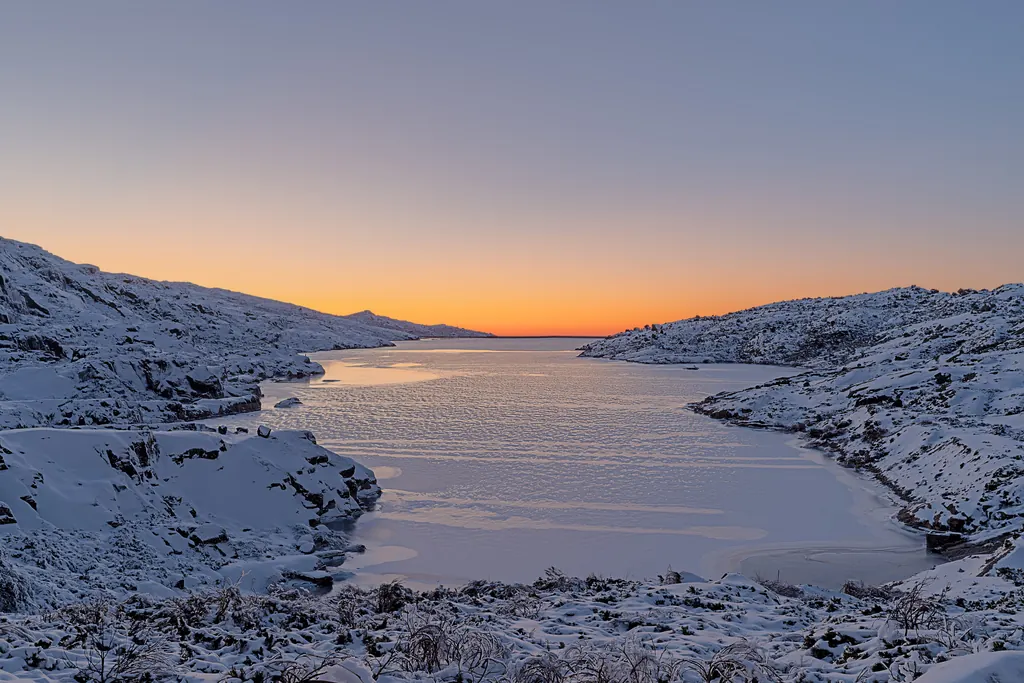
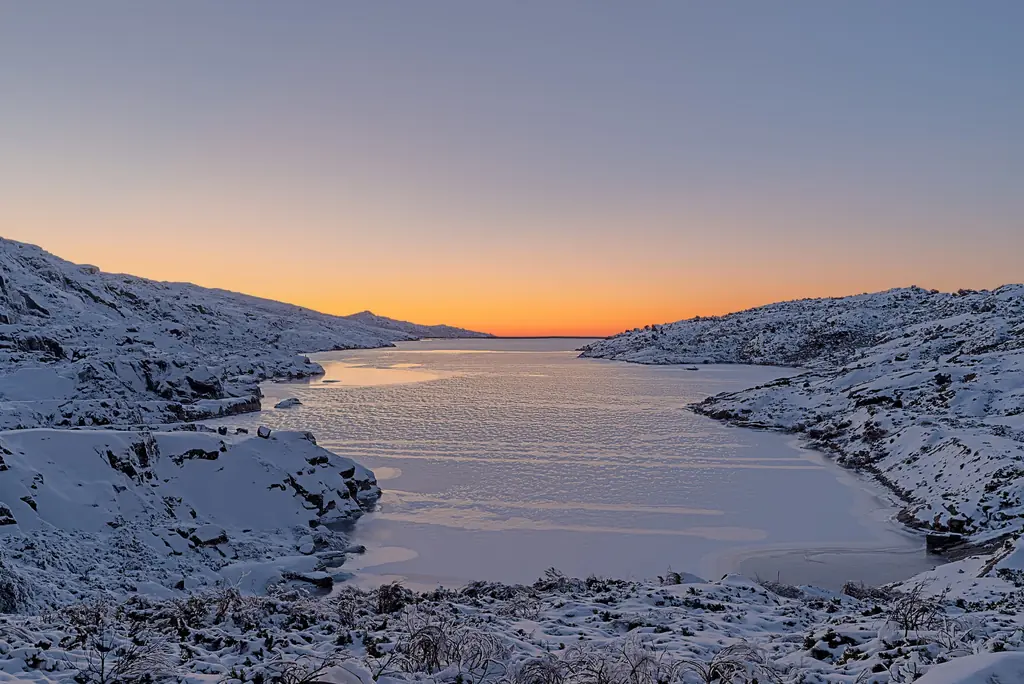
Texto sobre as fotos com mais contraste; foto de topo da Serra mais leve no telemóvel; mosaico carrega depois

diff --git a/src/styles.css b/src/styles.css
@@ -149,10 +149,10 @@ button { font: inherit; color: inherit; cursor: pointer; }
 /* ---------- página inicial ---------- */
 .hero { position: relative; display: grid; align-items: end; min-height: 56svh; color: #fff; overflow: hidden; }
 .hero__img { position: absolute; inset: 0; width: 100%; height: 100%; object-fit: cover; }
-.hero::after { content: ""; position: absolute; inset: 0; background: linear-gradient(180deg, rgba(0,0,0,0) 35%, rgba(20,10,8,.68)); }
+.hero::after { content: ""; position: absolute; inset: 0; background: linear-gradient(180deg, rgba(0,0,0,.08) 0%, rgba(0,0,0,.1) 30%, rgba(14,12,10,.55) 62%, rgba(14,12,10,.82) 100%); }
 .hero__content { position: relative; z-index: 1; padding-block: 3rem 5.5rem; }
-.hero__title { font-size: clamp(2.3rem, 9vw, 4.25rem); font-weight: 700; line-height: 1.02; letter-spacing: -.035em; margin-bottom: .75rem; }
-.hero__text { font-size: clamp(1rem, 3.6vw, 1.2rem); max-width: 40ch; opacity: .95; }
+.hero__title { text-shadow: 0 2px 22px rgba(0,0,0,.45); font-size: clamp(2.3rem, 9vw, 4.25rem); font-weight: 700; line-height: 1.02; letter-spacing: -.035em; margin-bottom: .75rem; }
+.hero__text { text-shadow: 0 1px 12px rgba(0,0,0,.55); font-size: clamp(1rem, 3.6vw, 1.2rem); max-width: 40ch; opacity: .95; }
 
 .quick {
   position: relative; z-index: 2; margin-top: -3.5rem;
@@ -541,7 +541,7 @@ body:has(.sheet[open]), body:has(.lightbox[open]) { overflow: hidden; }
 }
 .ms img { width: 100%; height: 100%; object-fit: cover; transition: transform .7s ease; }
 .ms:hover img, .ms:focus-visible img { transform: scale(1.03); }
-.ms span { position: absolute; left: 0; right: 0; bottom: 0; padding: 1.5rem .7rem .55rem; color: #fff; font-size: .82rem; font-weight: 600; text-align: left; background: linear-gradient(transparent, rgba(15, 22, 17, .7)); opacity: .95; }
+.ms span { position: absolute; left: 0; right: 0; bottom: 0; padding: 2.2rem .8rem .65rem; color: #fff; font-size: .9rem; font-weight: 700; text-align: left; text-shadow: 0 1px 8px rgba(0, 0, 0, .6); background: linear-gradient(transparent, rgba(12, 18, 14, .55) 45%, rgba(12, 18, 14, .85)); }
 .ms--big { grid-column: span 2; grid-row: span 2; }
 .ms--wide { grid-column: span 2; }
 /* aparecem suavemente ao entrar no ecrã */
